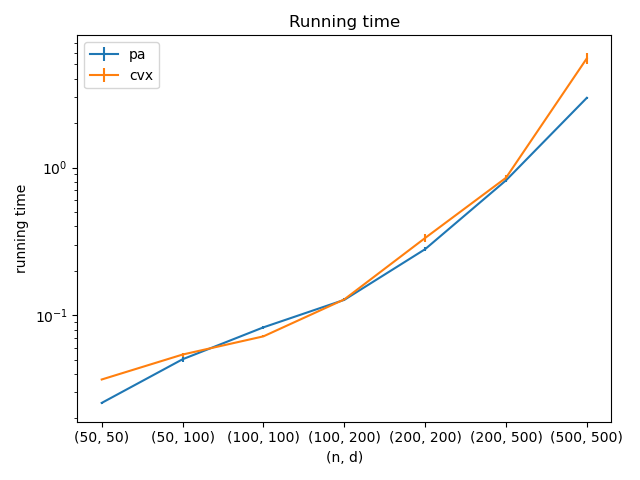
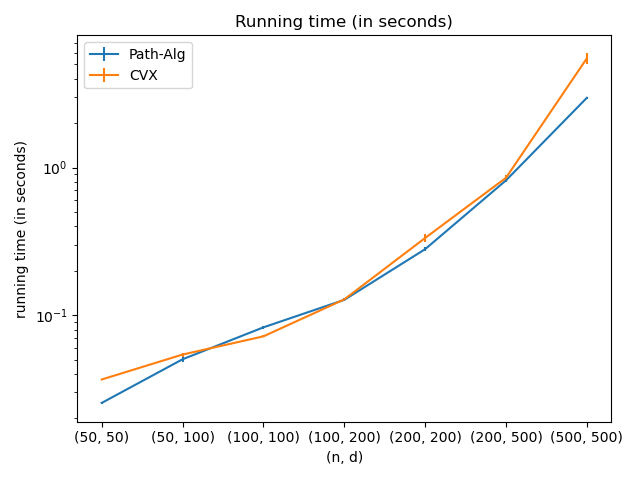
modifications benchmark

Changed region(s): [[0.0, 0.3125, 0.0625, 0.6562], [0.3438, 0.0312, 0.7188, 0.0625], [0.1875, 0.0938, 0.3125, 0.1875]]

diff --git a/benchmark/R2/bm-R2-plot.py b/benchmark/R2/bm-R2-plot.py
@@ -13,34 +13,34 @@ data = np.load(os.path.join(my_path, 'bm-R2.npz'))
 
 ticks = [str(tuple(size)) for size in data["SIZES"]]
 
-
+algo = ["Path-Alg", "P-PDS", "DR", "CVX"]
 
 fig = plt.figure()
 
-for name in ["T_pa", "T_pds", "T_dr", "T_cvx"]:
+for i, name in enumerate(["T_pa", "T_pds", "T_dr", "T_cvx"]):
     T = data[name]
     N_size, N_data = T.shape
     mean = np.mean(T, axis=1)
     std = np.std(T, axis=1)/np.sqrt(N_data)
-    label = name[2:]
+    label = algo[i]
     plt.errorbar(range(N_size), mean, yerr=std, label=label)
 
 plt.yscale("log")
-plt.title("Running time")
+plt.title("Running time (in seconds)")
 plt.xticks(range(N_size), ticks)
 plt.xlabel("(n, d)")
-plt.ylabel("running time")
+plt.ylabel("running time (in seconds)")
 plt.legend()
 plt.tight_layout()
 plt.savefig(os.path.join(output, "bm-R2-times.png"))
 plt.close()
 
 ref = np.min( [np.mean(data[name], axis=1) for name in ["L_pa", "L_pds", "L_dr", "L_cvx"] ], axis=0) 
-for name in ["L_pa", "L_pds", "L_dr", "L_cvx"]:
+for i, name in enumerate(["L_pa", "L_pds", "L_dr", "L_cvx"]):
     L = data[name]
     N_size, N_data = L.shape
     mean = np.mean(L, axis=1)
-    label = name[2:]
+    label = algo[i]
     plt.plot(range(N_size), mean - ref, label=label)
 
 plt.title("Loss - minimum(loss)")
@@ -52,12 +52,12 @@ plt.tight_layout()
 plt.savefig(os.path.join(output, "bm-R2-losses.png"))
 plt.close()
 
-for name in ["C_pa", "C_pds", "C_dr", "C_cvx"]:
+for i, name in enumerate(["C_pa", "C_pds", "C_dr", "C_cvx"]):
     C = data[name]
     N_size, N_data = C.shape
     mean = np.mean(C, axis=1)
     std = np.std(C, axis=1)/np.sqrt(N_data)
-    label = name[2:]
+    label = algo[i]
     plt.plot(range(N_size), mean, label=label)
 
 plt.title("Value of norm(Cbeta)")

diff --git a/benchmark/R1/bm-R1-plot.py b/benchmark/R1/bm-R1-plot.py
@@ -11,33 +11,34 @@ data = np.load(os.path.join(my_path, 'bm-R1.npz'))
 
 ticks = [str(tuple(size)) for size in data["SIZES"]]
 
+algo = ["Path-Alg", "P-PDS", "DR", "CVX"]
 
 fig = plt.figure()
 
-for name in ["T_pa", "T_pds", "T_dr", "T_cvx"]:
+for i, name in enumerate(["T_pa", "T_pds", "T_dr", "T_cvx"]):
     T = data[name]
     N_size, N_data = T.shape
     mean = np.mean(T, axis=1)
     std = np.std(T, axis=1)/np.sqrt(N_data)
-    label = name[2:]
+    label = algo[i]
     plt.errorbar(range(N_size), mean, yerr=std, label=label)
 
 plt.yscale("log")
-plt.title("Running time")
+plt.title("Running time (in seconds)")
 plt.xticks(range(N_size), ticks)
 plt.xlabel("(n, d)")
-plt.ylabel("running time")
+plt.ylabel("running time (in seconds)")
 plt.legend()
 plt.tight_layout()
 plt.savefig(os.path.join(output, "bm-R1-times.png"))
 plt.close()
 
 ref = np.min( [np.mean(data[name], axis=1) for name in ["L_pa", "L_pds", "L_dr", "L_cvx"] ], axis=0) 
-for name in ["L_pa", "L_pds", "L_dr", "L_cvx"]:
+for i, name in enumerate(["L_pa", "L_pds", "L_dr", "L_cvx"]):
     L = data[name]
     N_size, N_data = L.shape
     mean = np.mean(L, axis=1)
-    label = name[2:]
+    label = algo[i]
     plt.plot(range(N_size), mean - ref, label=label)
 
 plt.title("Loss - minimum(loss)")
@@ -49,12 +50,12 @@ plt.tight_layout()
 plt.savefig(os.path.join(output, "bm-R1-losses.png"))
 plt.close()
 
-for name in ["C_pa", "C_pds", "C_dr", "C_cvx"]:
+for i, name in enumerate(["C_pa", "C_pds", "C_dr", "C_cvx"]):
     C = data[name]
     N_size, N_data = C.shape
     mean = np.mean(C, axis=1)
     std = np.std(C, axis=1)/np.sqrt(N_data)
-    label = name[2:]
+    label = algo[i]
     plt.plot(range(N_size), mean, label=label)
 
 plt.title("Value of norm(Cbeta)")

diff --git a/benchmark/C1/bm-C1-plot.py b/benchmark/C1/bm-C1-plot.py
@@ -11,33 +11,34 @@ data = np.load(os.path.join(my_path, 'bm-C1.npz'))
 
 ticks = [str(tuple(size)) for size in data["SIZES"]]
 
+algo = ["Path-Alg", "CVX"]
 
 fig = plt.figure()
 
-for name in ["T_pa", "T_cvx"]:
+for i, name in enumerate(["T_pa", "T_cvx"]):
     T = data[name]
     N_size, N_data = T.shape
     mean = np.mean(T, axis=1)
     std = np.std(T, axis=1)/np.sqrt(N_data)
-    label = name[2:]
+    label = algo[i]
     plt.errorbar(range(N_size), mean, yerr=std, label=label)
 
 plt.yscale("log")
-plt.title("Running time")
+plt.title("Running time (in seconds)")
 plt.xticks(range(N_size), ticks)
 plt.xlabel("(n, d)")
-plt.ylabel("running time")
+plt.ylabel("running time (in seconds)")
 plt.legend()
 plt.tight_layout()
 plt.savefig(os.path.join(output, "bm-C1-times.png"))
 plt.close()
 
 ref = np.min( [np.mean(data[name], axis=1) for name in ["L_pa", "L_cvx"] ], axis=0) 
-for name in ["L_pa", "L_cvx"]:
+for i, name in enumerate(["L_pa", "L_cvx"]):
     L = data[name]
     N_size, N_data = L.shape
     mean = np.mean(L, axis=1)
-    label = name[2:]
+    label = algo[i]
     plt.plot(range(N_size), mean-ref, label=label)
 
 plt.title("Loss - minimum(loss)")
@@ -49,12 +50,12 @@ plt.tight_layout()
 plt.savefig(os.path.join(output, "bm-C1-losses.png"))
 plt.close()
 
-for name in ["C_pa", "C_cvx"]:
+for i, name in enumerate(["C_pa", "C_cvx"]):
     C = data[name]
     N_size, N_data = C.shape
     mean = np.mean(C, axis=1)
     std = np.std(C, axis=1)/np.sqrt(N_data)
-    label = name[2:]
+    label = algo[i]
     plt.plot(range(N_size), mean, label=label)
 
 plt.title("Value of norm(Cbeta)")

diff --git a/paper/paper.md b/paper/paper.md
@@ -269,6 +269,8 @@ To evaluate optimization accuracy and running time of the different algorithms a
 
 Figure 1 summarizes the results for the *Path-Alg*, *DR*, and *P-PDS* algorithms on the [constrained lasso regression formulation R1](#R1) for different samples sizes $n$ and problem dimensions $p$ on synthetic data (using `c-lasso`'s data generator). We observe that `c-lasso`'s algorithms are faster and more accurate than the `cvx` baseline. For instance, for $d=500$ features and $n=500$ samples, the *Path-Alg* algorithm is about $70$ times faster than `cvx`.
 
+The running times of the micro-benchmark has been computed using Python 3.9.1 on a laptop `MacBook Air`, operating on macOS high Sierra with the processor `1,8 GHz Intel Core i5`, with memory of `8 Go 1600 MHz DDR3`.
+
 ![Average objective function value difference (with respect to the *Path-Alg* solution) (left panel) and running time (right panel) for solutions found with *Path-Alg* (blue), *P-PDS* (yellow), *DR* (green), and cvx (red) at fixed $\lambda = 0.1$. Mean (and standard deviation) running time is reported across 20 synthetic datasets for each sample size/dimension scenario $(n,d)$. On a single data set, the reported running time of an algorithm is the average time of five algorithm runs (to guard against system background processes).](figures/figure_benchmark.png)
 
 
